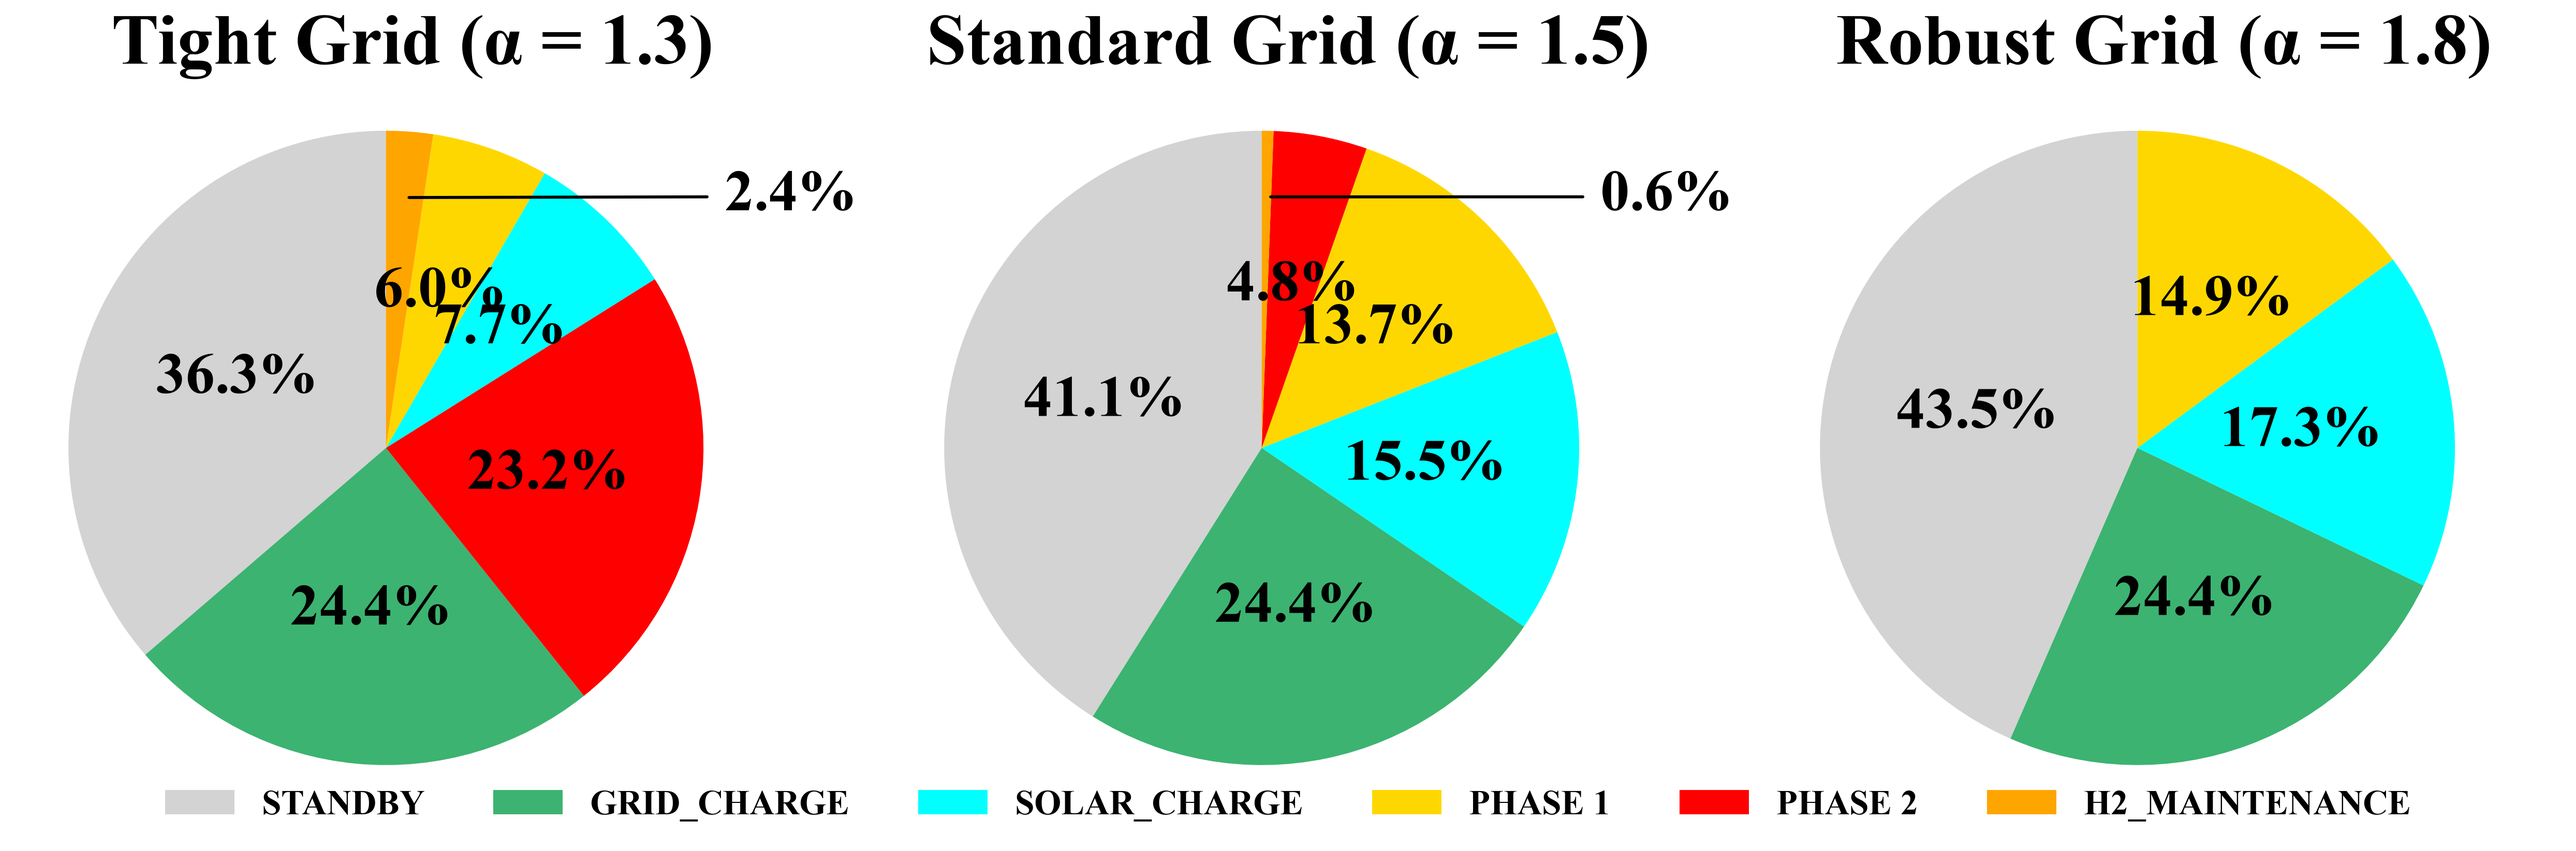
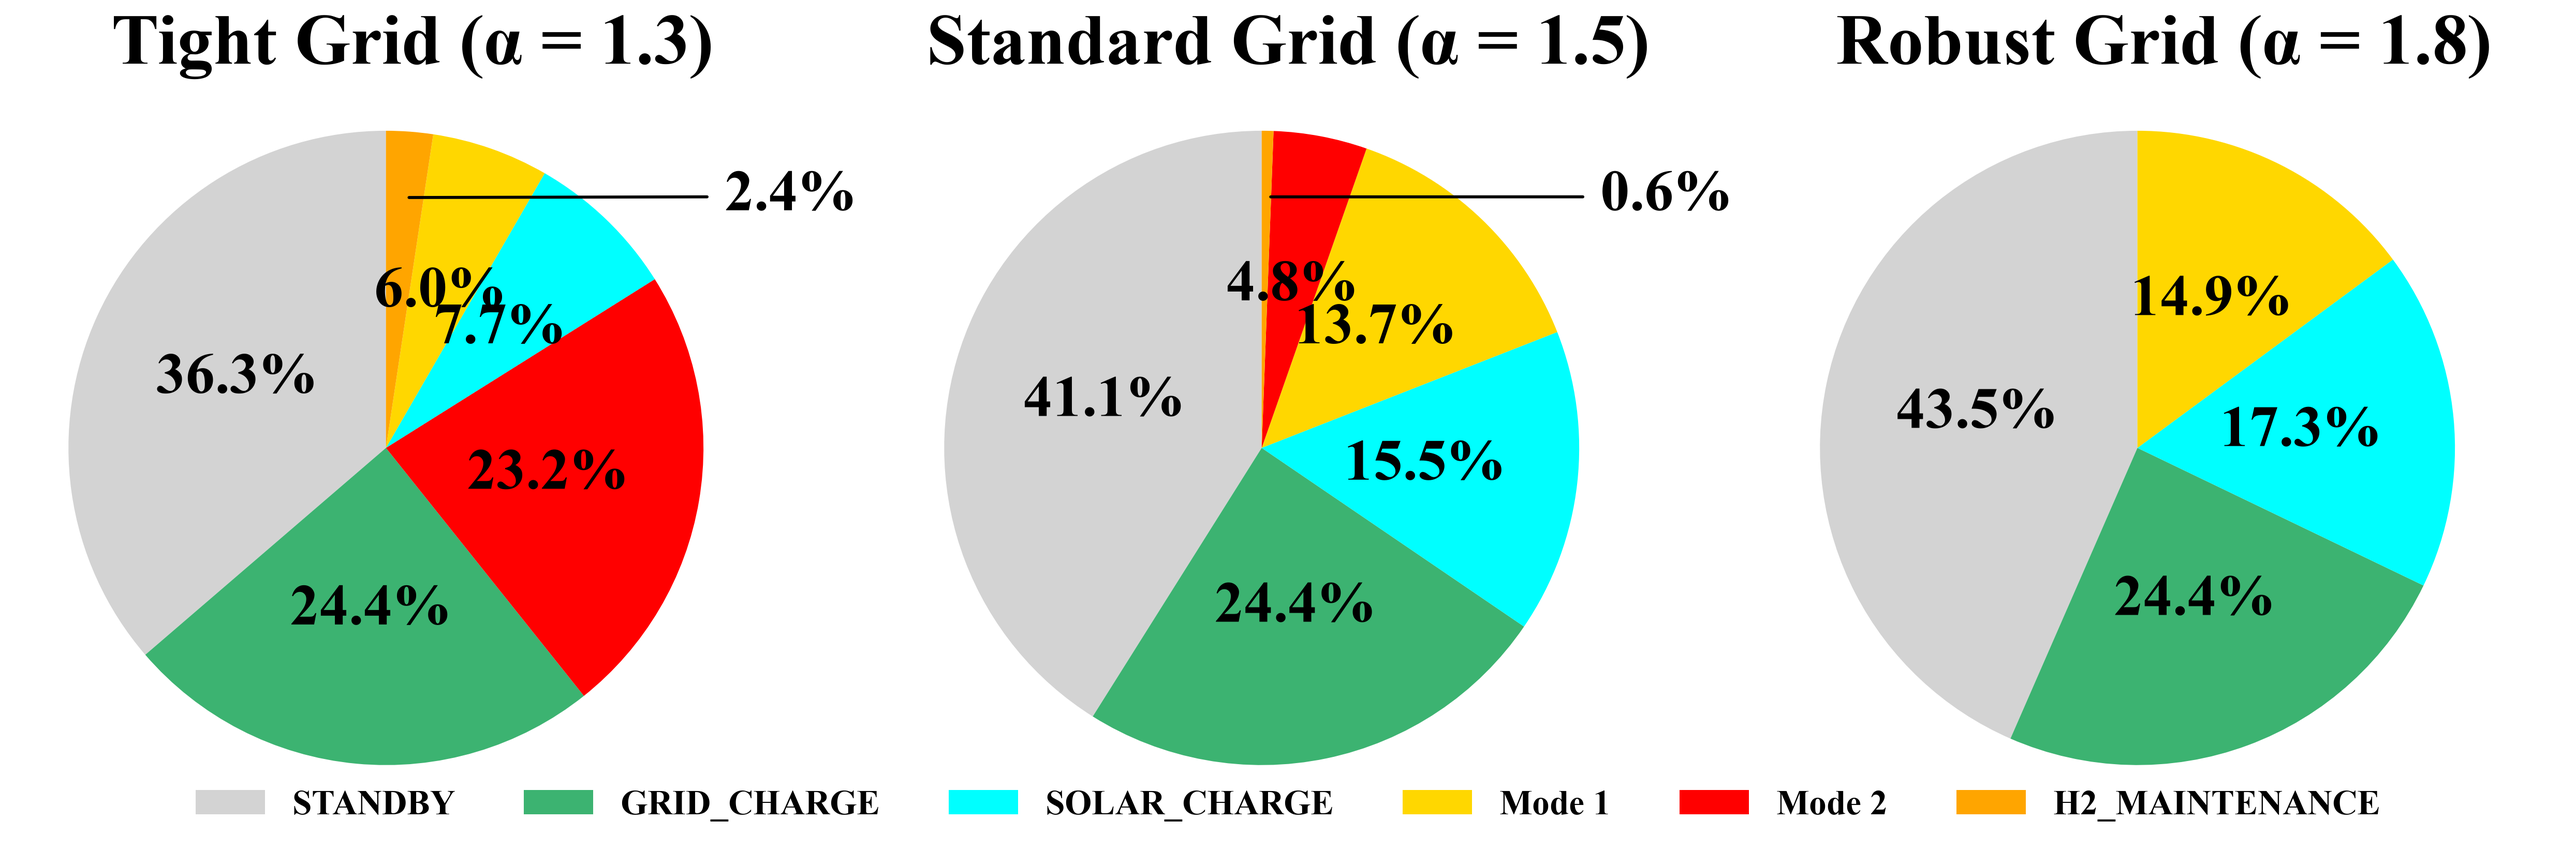
Rename Figure 9 phase legend to modes

Changed region(s): [[0.0623, 0.9295, 0.6229, 0.9605], [0.6852, 0.9295, 0.9343, 0.9605]]

diff --git a/HB-MPS main simulation.py b/HB-MPS main simulation.py
@@ -762,7 +762,10 @@ def create_mode_distribution_figure(scenario_results):
 
     fig.legend(
         [Patch(facecolor=c) for c in colors.values()],
-        list(colors.keys()),
+        [
+            {"PHASE 1": "Mode 1", "PHASE 2": "Mode 2"}.get(mode, mode)
+            for mode in colors
+        ],
         loc="lower center",
         bbox_to_anchor=(0.5, 0.06),
         ncol=6,
